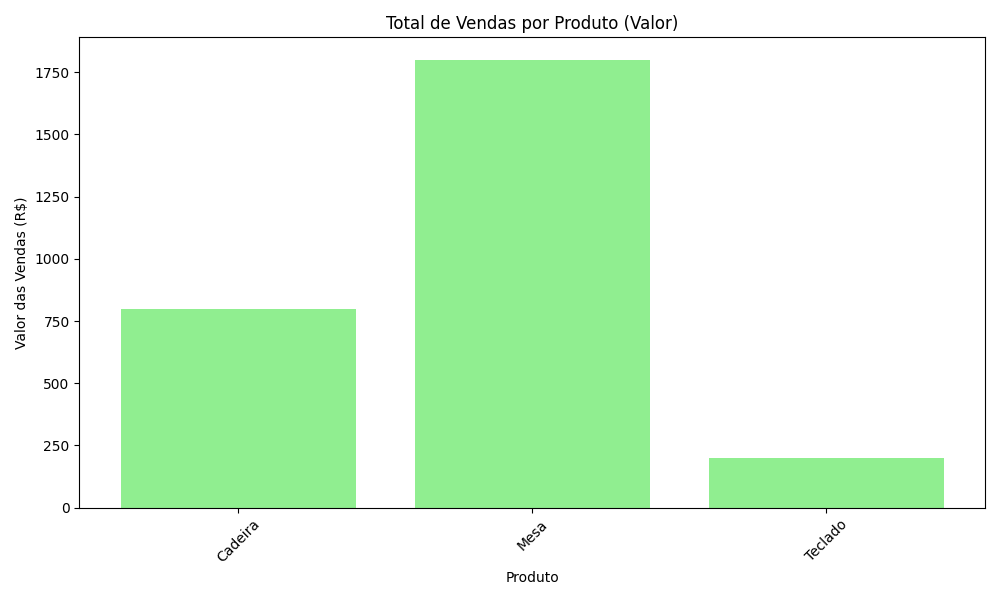
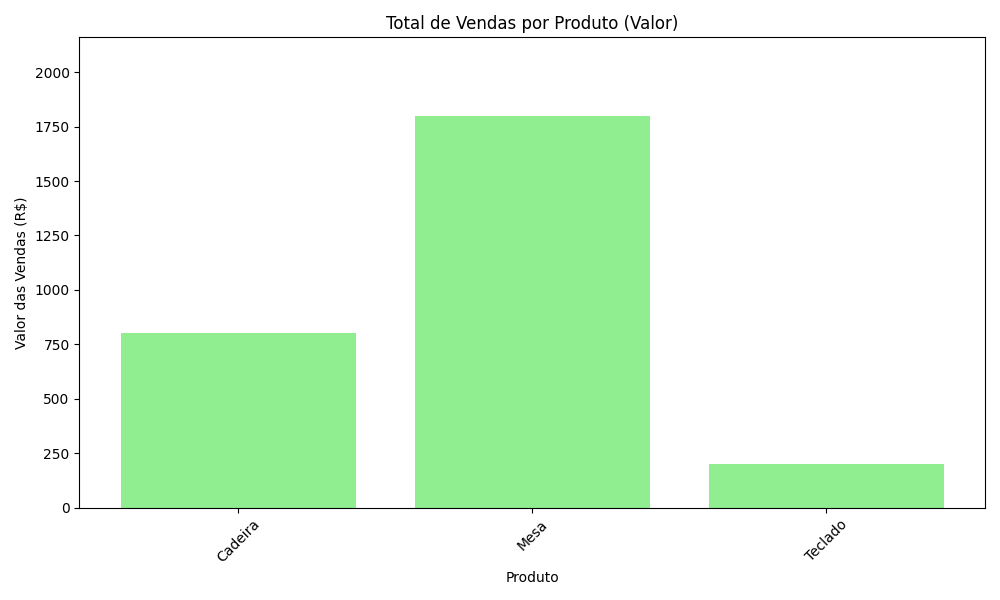
correções

diff --git a/gerar_graficos.py b/gerar_graficos.py
@@ -66,6 +66,8 @@ plt.title('Total de Vendas por Produto (Valor)')
 plt.xlabel('Produto')
 plt.ylabel('Valor das Vendas (R$)')
 plt.xticks(rotation=45)
+max_venda = vendas_valor['valor_venda'].max()
+plt.ylim(0, max_venda * 1.2)
 plt.tight_layout()  # Ajusta para que tudo caiba
 # Salva a imagem com o nome especificado
 plt.savefig('grafico_vendas_produto_valor.png')
